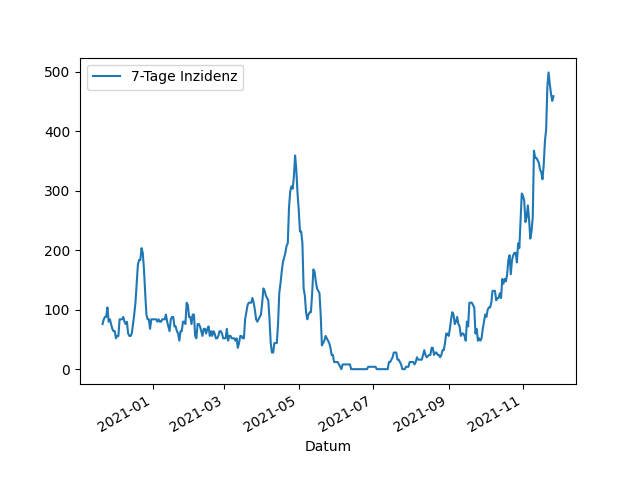
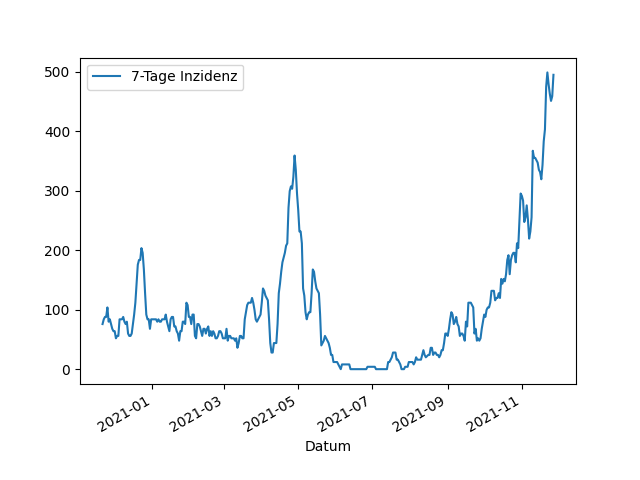
Update images

diff --git a/_includes/aktuelle_inzidenz.md b/_includes/aktuelle_inzidenz.md
@@ -1,1 +1,1 @@
-459,0
+495,0
